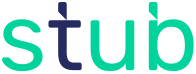
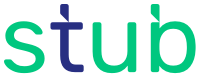
Less hospital brand

diff --git a/_sass/_layout.scss b/_sass/_layout.scss
@@ -23,12 +23,12 @@
     }
 }
 .stub-logo {
-    width: 72px; 
+    width: 70px; 
     height: auto;
 }
 @media (min-width: $breakpoint-md) {
     .stub-logo {
-        width: 86px;
+        width: 80px;
     }
     .site-nav {
         .wrapper {   
@@ -40,7 +40,7 @@
 }
 @media (min-width: $breakpoint-lg) {
     .stub-logo {
-        width: 98px;
+        width: 100px;
     }
     .site-nav {
         .wrapper {   
@@ -55,8 +55,8 @@
     background-image:
         linear-gradient(
         to top right, 
-        #00C0B9,
-        #285E9C
+        #00C77F,
+        #282F82
         );
     padding: 18px 0;
 

diff --git a/css/main.scss b/css/main.scss
@@ -60,10 +60,10 @@
 
 $font-family: 'public-sans', sans-serif;
 
-$brand-vlight:#E5FAF5;
-$brand-light: #B2F1E1;
-$brand:       #22CB9F;
-$brand-dark:  #07B190;
+$brand-vlight:#E5F9F2;
+$brand-light: #CCF4E5;
+$brand:       #00C77F;
+$brand-dark:  #08A87F;
 $light:       #ffffff;
 $gray-1:      #fafafb;
 $gray-2:      #f4f4f5;
